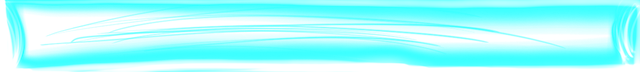
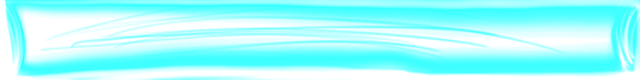
New UI Border Design

diff --git a/src/scenes/Play.js b/src/scenes/Play.js
@@ -30,12 +30,9 @@ class Play extends Phaser.Scene {
     // place tile sprite
     this.starfield = this.add.tileSprite(0, 0, 640, 480, 'starfield').setOrigin(0, 0);
 
-    // SkyBLUE UI background
-    this.uiborder = this.add.tileSprite(0, 0, 640, 72, 'uiborder').setOrigin(0, 0); //new UI Border design
+    // Neon Blue UI background
+    this.uiborder = this.add.tileSprite(0, 36, 640, 80, 'uiborder').setOrigin(0.0, 0); //new UI Border design
     
-    
-    //this.add.rectangle(0, borderUISize + borderPadding, game.config.width, borderUISize * 2, 0x82EEFD).setOrigin(0, 0);
-
 
     //place new Neon Pink border art
     this.neonborder = this.add.tileSprite(0, 0, 640, 480, 'neonborder').setOrigin(0, 0);
@@ -81,10 +78,11 @@ class Play extends Phaser.Scene {
       fixedWidth: 100
     }
 
-    this.scoreLeft = this.add.text(borderUISize + borderPadding, borderUISize + borderPadding*2, this.p1Score, scoreConfig);
-    this.timeText = this.add.text(game.config.width - borderPadding, borderUISize + borderPadding*2, this.totalTime, scoreConfig);
-    
+    this.scoreLeft = this.add.text(borderUISize + borderPadding, borderUISize + borderPadding*2, this.p1Score, scoreConfig)
 
+    this.timeText = this.add.text(game.config.width - 130, borderUISize + borderPadding*2, this.totalTime, scoreConfig);   //time countdown code
+    
+    
     // GAME OVER flag
     this.gameOver = false;
 

diff --git a/src/scenes/Menu.js b/src/scenes/Menu.js
@@ -13,6 +13,10 @@ class Menu extends Phaser.Scene {
     }
     
     create() {
+
+      this.music = this.sound.add('sfx_menu');
+
+
       //menu text config
       let menuConfig = {
         fontFamily: 'Courier',
@@ -28,6 +32,7 @@ class Menu extends Phaser.Scene {
     }
 
     //show menu text
+    this.music.play();
     this.add.text(game.config.width/2, game.config.height/2 - borderUISize - 
     borderPadding, 'ROCKET PATROL', menuConfig).setOrigin(0.5);
     this.add.text(game.config.width/2, game.config.height/2, 'Use<-->arrows to move & SPACE to fire',
@@ -50,7 +55,8 @@ class Menu extends Phaser.Scene {
         gameTimer: 60000    
       }
       this.sound.play('sfx_select');
-      this.scene.start('playScene');    
+      this.scene.start('playScene'); 
+      this.music.stop();   
     }
     if (Phaser.Input.Keyboard.JustDown(keyRIGHT)) {
       // hard mode
@@ -59,7 +65,8 @@ class Menu extends Phaser.Scene {
         gameTimer: 45000    
       }
       this.sound.play('sfx_select');
-      this.scene.start('playScene');    
+      this.scene.start('playScene');  
+      this.music.stop();  
     }
   }
 }

diff --git a/src/prefabs/Rocket.js b/src/prefabs/Rocket.js
@@ -29,7 +29,7 @@ class Rocket extends  Phaser.GameObjects.Sprite {
          // fire button
             if (Phaser.Input.Keyboard.JustDown(keySPACEBAR) && !this.isFiring) {
                 this.isFiring = true;
-                this.fireText.SetVisible(false);
+                this.fireText.setVisible(false);
                 this.sfxRocket.play();  // play sfx
             }
         
